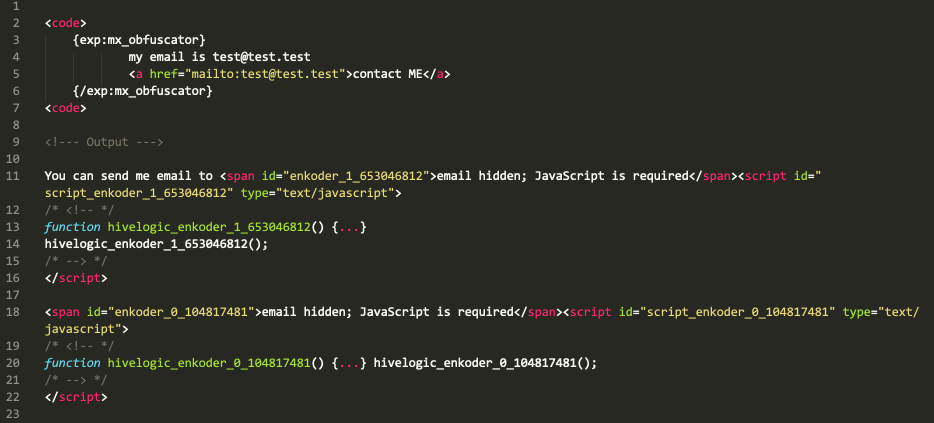
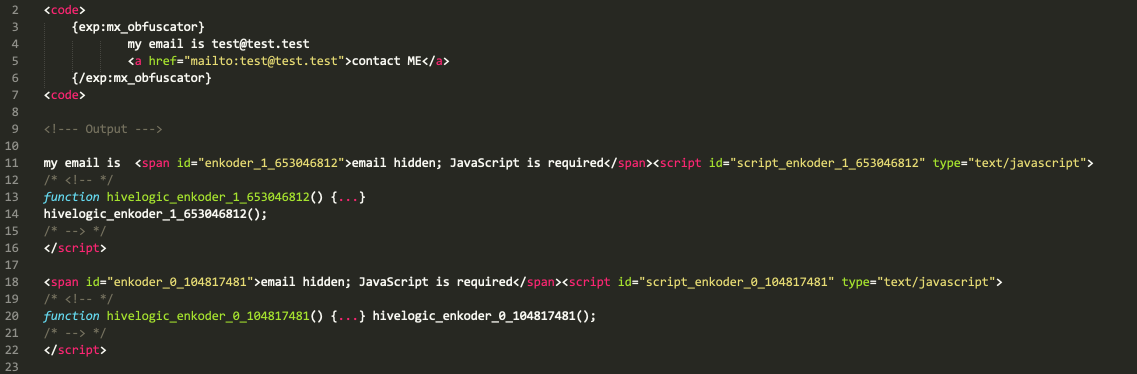
no message

diff --git a/README.md b/README.md
@@ -21,7 +21,7 @@ spambots.
     
     <!-- That will make your msg appear as -->
 	
-	You can send me email to <span id="enkoder_1_653046812">email hidden; JavaScript is required</span><script id="script_enkoder_1_653046812" type="text/javascript">
+	my email is <span id="enkoder_1_653046812">email hidden; JavaScript is required</span><script id="script_enkoder_1_653046812" type="text/javascript">
 	/* <!-- */
 	function hivelogic_enkoder_1_653046812() {...}
 	hivelogic_enkoder_1_653046812();
